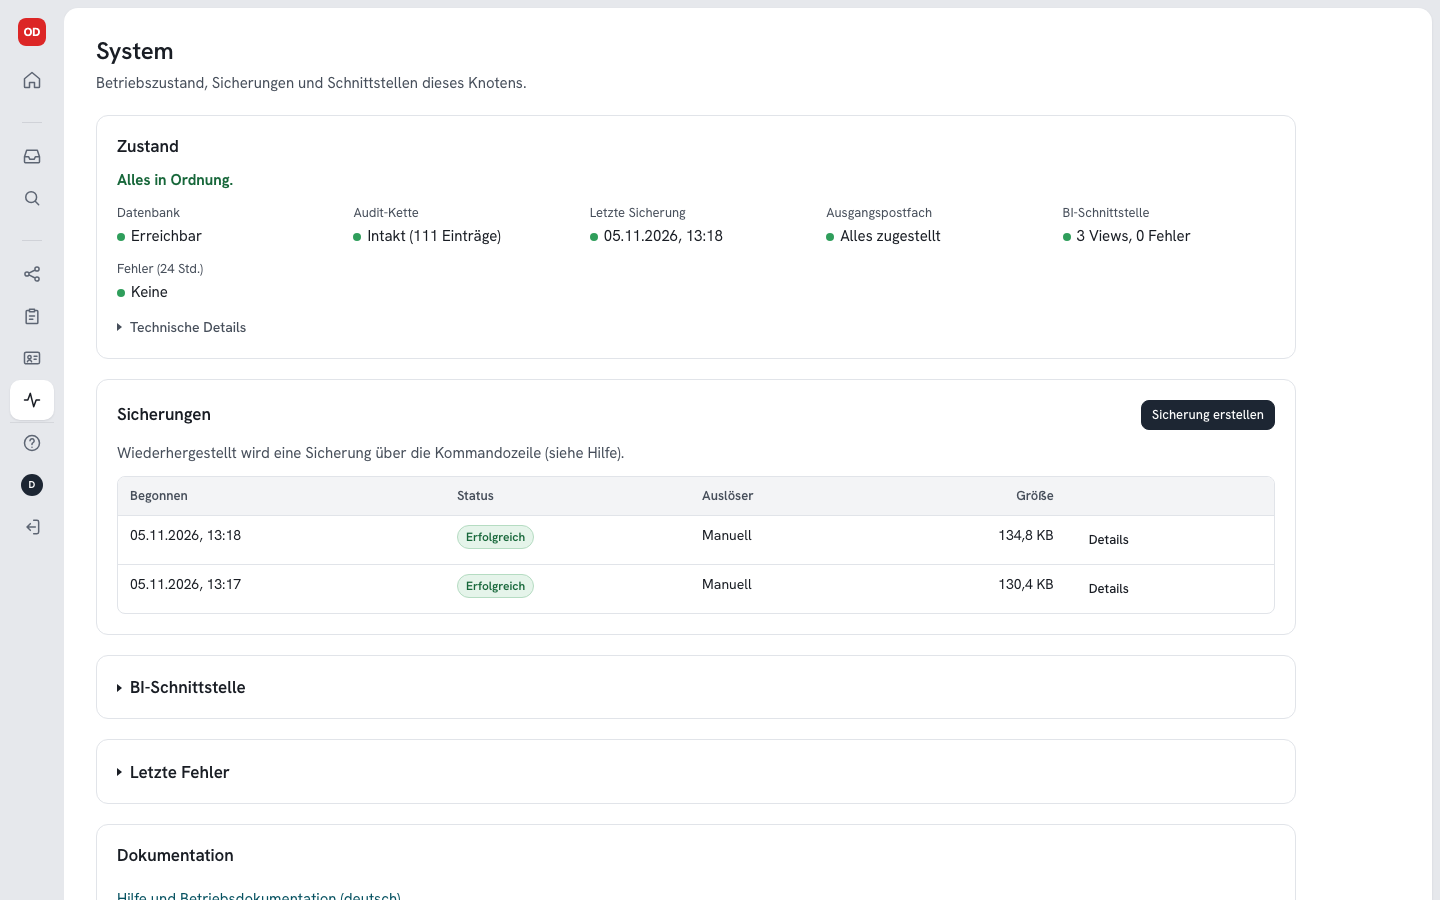
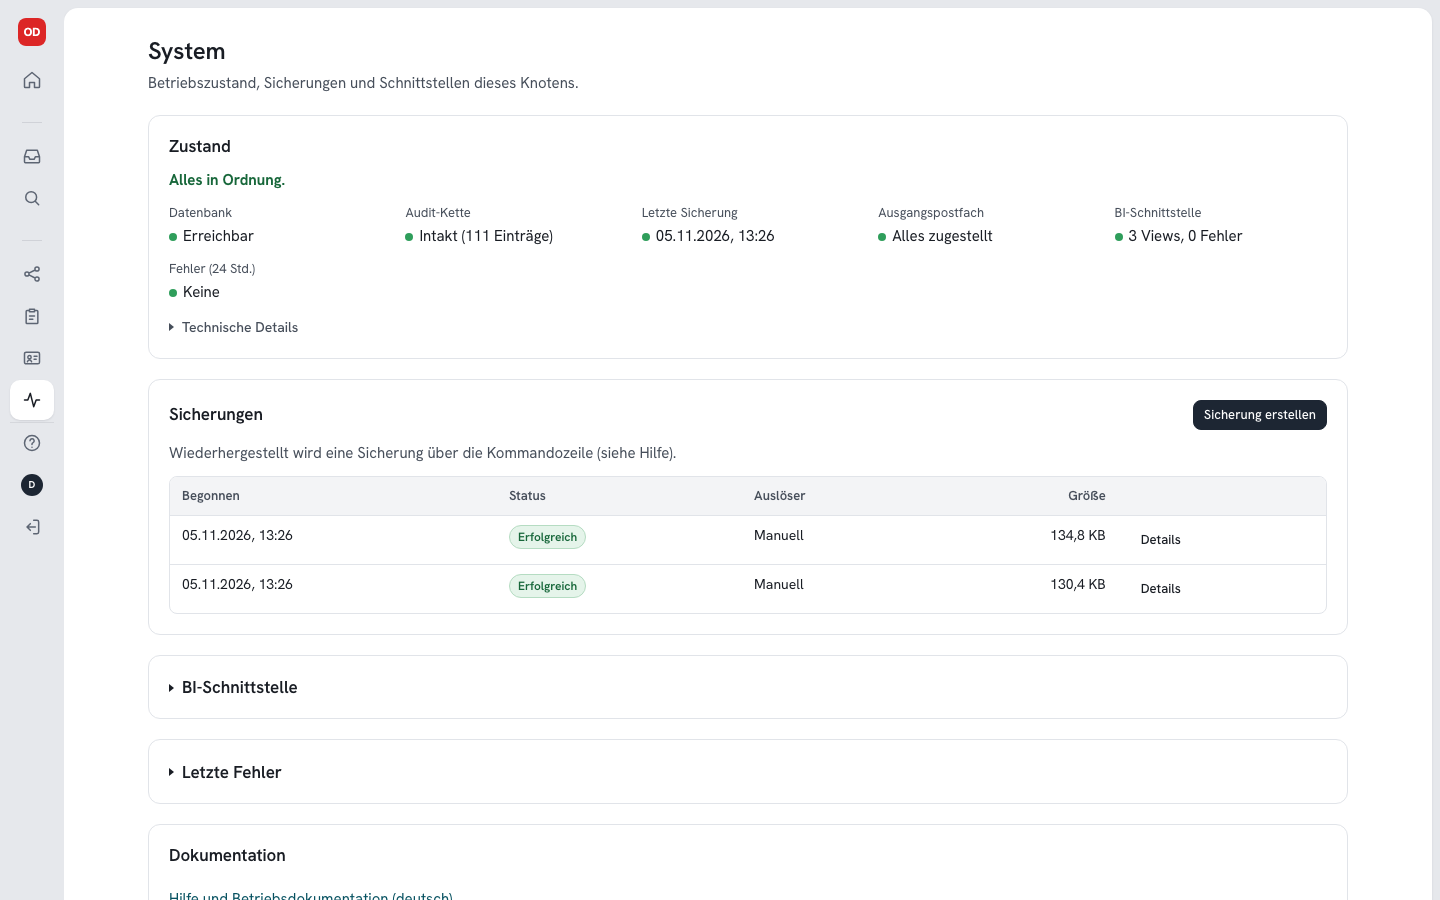
Center pages on the sheet; two-column start page on wide screens; README with the new views
- Every page is centered with the same maximum width, so nothing jumps when switching pages
- Start page: tasks, recently opened and released data on the left; key figures as a compact list
  and node details in a 320 px column on the right (container query); one column on narrow screens
- README: start page, expanded sidebar, catalogue, release, import preview and dashboard;
  new screenshot 20 (expanded sidebar), screenshots retaken

diff --git a/src/ui/screens/Overview.tsx b/src/ui/screens/Overview.tsx
@@ -24,7 +24,8 @@ function greetingKey(): MessageKey {
 
 /**
  * / – Startseite: Gruß und Suche, offene Aufgaben wie ein Posteingang, zuletzt Geöffnetes und für mich
- * freigegebene Daten als Kacheln, Kennzahlen. Knotenkennung und Fingerprint aufklappbar am Ende.
+ * freigegebene Daten als Kacheln; Kennzahlen und Knotenangaben (aufklappbar) in einer schmalen Spalte
+ * rechts bzw. auf schmalen Bildschirmen darunter.
  */
 export function Overview() {
   const { t } = useI18n();
@@ -39,27 +40,33 @@ export function Overview() {
         description={`${s.node.displayName} · ${roles}`}
         actions={s.can('catalog.local') ? <HomeSearch /> : undefined}
       />
-      <Todos />
-      <Recent />
-      {s.can('access.list') && <MyDataSummary />}
-      <AtAGlance />
-      <Details summary={t('overview.thisNode')}>
-        <DescriptionList
-          items={[
-            [t('common.name'), s.node.displayName],
-            [
-              t('overview.nodeId'),
-              <span key="id" className="mono">
-                {s.node.nodeId}
-              </span>,
-            ],
-          ]}
-        />
-        <div className="stack-sm">
-          <span className="field-label">{t('common.fingerprint')}</span>
-          <FingerprintBox value={s.node.fingerprint} />
+      <div className="home-grid">
+        <div className="home-main">
+          <Todos />
+          <Recent />
+          {s.can('access.list') && <MyDataSummary />}
         </div>
-      </Details>
+        <div className="home-side">
+          <AtAGlance />
+          <Details summary={t('overview.thisNode')}>
+            <DescriptionList
+              items={[
+                [t('common.name'), s.node.displayName],
+                [
+                  t('overview.nodeId'),
+                  <span key="id" className="mono">
+                    {s.node.nodeId}
+                  </span>,
+                ],
+              ]}
+            />
+            <div className="stack-sm">
+              <span className="field-label">{t('common.fingerprint')}</span>
+              <FingerprintBox value={s.node.fingerprint} />
+            </div>
+          </Details>
+        </div>
+      </div>
     </div>
   );
 }

diff --git a/src/ui/styles.css b/src/ui/styles.css
@@ -534,8 +534,11 @@ code,
 
 /* ------------------------------------------------------------------ Page */
 
+/* Inhaltsspalte mittig auf dem Blatt; alle Seiten gleich breit, damit beim Wechsel nichts springt */
 .page {
+  width: 100%;
   max-width: 1200px;
+  margin-inline: auto;
   display: flex;
   flex-direction: column;
   gap: 20px;
@@ -1696,14 +1699,70 @@ input[type="file"].input {
 
 /* Startseite: Gruß mit Suche, Aufgaben wie ein Posteingang, Kacheln */
 .home {
-  max-width: 980px;
   gap: 28px;
+  container: home / inline-size;
+}
+.home-grid {
+  display: grid;
+  grid-template-columns: minmax(0, 1fr);
+  gap: 28px 48px;
+  align-items: start;
+}
+.home-main,
+.home-side {
+  display: flex;
+  flex-direction: column;
+  gap: 28px;
+  min-width: 0;
+}
+/* breit: Kennzahlen und Knotenangaben in einer schmalen Spalte rechts, so breit wie die Suche */
+@container home (min-width: 940px) {
+  .home-grid {
+    grid-template-columns: minmax(0, 1fr) 320px;
+  }
+  .home .page-actions {
+    flex-basis: 320px;
+  }
+  /* Kennzahlen als ruhige Liste: Bezeichnung links, Wert rechts */
+  .home-side .stat-grid {
+    display: flex;
+    flex-direction: column;
+    gap: 0;
+    border-top: 1px solid var(--border);
+  }
+  .home-side .stat {
+    flex-direction: row;
+    align-items: baseline;
+    justify-content: space-between;
+    gap: 12px;
+    padding: 11px 4px;
+    border: 0;
+    border-bottom: 1px solid var(--border);
+    border-radius: 0;
+    background: none;
+  }
+  .home-side .stat.link-card:hover {
+    background: var(--surface-2);
+    border-color: var(--border);
+  }
+  .home-side .stat-label {
+    font-size: 0.9375rem;
+    color: var(--text);
+  }
+  .home-side .stat-value {
+    font-size: 1rem;
+  }
+  .home-side .stat-text {
+    font-size: 0.875rem;
+    color: var(--text-2);
+    text-align: right;
+  }
 }
 .home .page-header-row {
   align-items: center;
 }
 .home .page-actions {
-  flex: 0 1 280px;
+  flex: 0 1 300px;
 }
 .home-search {
   display: block;

diff --git a/README.md b/README.md
@@ -31,11 +31,13 @@ und nur das teilt, was er ausdrücklich freigibt.**
   <img src="assets/ueberblick.svg" width="760" alt="Drei Olympiastützpunkte mit je eigener Web-App, eigener Datenbank und optionalen Dashboards tauschen direkt nur freigegebene Daten aus – signiert und beidseitig protokolliert, ohne zentralen Server">
 </p>
 
-| Katalog: Daten finden – bei uns und bei Partnern | Freigabe: genau festlegen, wer was wofür bekommt |
+| Startseite: Aufgaben, zuletzt Geöffnetes, Kennzahlen | Seitenleiste: Symbole, mit einem Klick aufgeklappt |
 |---|---|
+| ![Startseite](docs/screenshots/02-uebersicht.png) | ![Aufgeklappte Seitenleiste](docs/screenshots/20-seitenleiste-aufgeklappt.png) |
+| **Katalog: Daten finden – bei uns und bei Partnern** | **Freigabe: genau festlegen, wer was wofür bekommt** |
 | ![Katalog](docs/screenshots/10-katalog-discovery.png) | ![Freigabe](docs/screenshots/06-freigabe-erstellen.png) |
-| **Startseite** | **Dashboard (Apache Superset)** |
-| ![Startseite](docs/screenshots/02-uebersicht.png) | ![Dashboard](docs/screenshots/17-superset-kader.png) |
+| **Import: Vorschau mit Prüfung, bevor etwas gespeichert wird** | **Dashboard (Apache Superset)** |
+| ![Import-Vorschau](docs/screenshots/04-quelle-import-vorschau.png) | ![Dashboard](docs/screenshots/17-superset-kader.png) |
 
 Mehr Bilder und ein Rundgang: [docs/oberflaeche.md](docs/oberflaeche.md).
 

diff --git a/docs/screenshots/README.md b/docs/screenshots/README.md
@@ -21,3 +21,4 @@ Aufgenommen mit `bun run demo -- --keep-running` (synthetische Daten, deutsche O
 - `17-superset-kader.png` – Apache Superset 6.1.0, Referenz-Dashboard „Kaderübersicht“ auf der View `bi.kader_uebersicht` von osp-nord (als `mesh_bi`, eingerichtet mit `deploy/superset/bootstrap_superset.py`; 1440 × 1500).
 - `18-superset-sprungkraft.png` – Superset-Dashboard „Sprungkraft-Entwicklung“ auf `bi.sprungkraft` (CMJ-Verläufe je Sportart, nach Kaderstatus, Anzahl Messungen; 1440 × 1100).
 - `19-superset-leistungsdiagnostik.png` – Superset-Dashboard „Leistungsdiagnostik“ auf `bi.leistungsdiagnostik` (VO2max-Histogramm, Laktatschwelle, Zeitverlauf, Kennwerte-Tabelle; 1440 × 1100).
+- `20-seitenleiste-aufgeklappt.png` – Startseite mit aufgeklappter Seitenleiste (Gruppen, Hilfe, Konto, Abmelden).

diff --git a/docs/oberflaeche.md b/docs/oberflaeche.md
@@ -43,6 +43,11 @@ Freigaben, empfangene Daten, Partner, letzte Sicherung, Audit-Log); jede Kachel 
 *Dieser Knoten* (aufklappbar) zeigt Name, Knoten-ID und Fingerprint; die eigenen Rollen mit Beschreibung
 stehen unter *Konto*.
 
+Auf breiten Bildschirmen stehen Kennzahlen und *Dieser Knoten* in einer schmalen Spalte rechts, auf
+schmalen darunter. Alle Seiten stehen mittig auf dem Blatt und sind gleich breit.
+
+![Startseite mit aufgeklappter Seitenleiste](screenshots/20-seitenleiste-aufgeklappt.png)
+
 Links steht eine schmale **Symbolleiste** auf grauem Grund; der Inhalt liegt auf einem hellen Blatt.
 Fährt man mit der Maus über ein Symbol (oder springt mit der Tabulatortaste darauf), erscheint sein Name.
 Ein Klick auf das Logo oben klappt die Leiste auf und zeigt alle Namen in drei Gruppen: *Daten finden*
